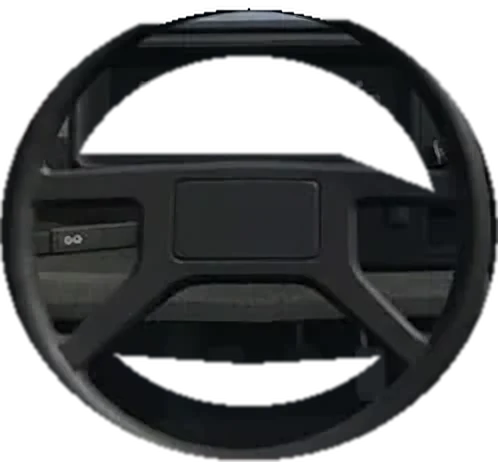
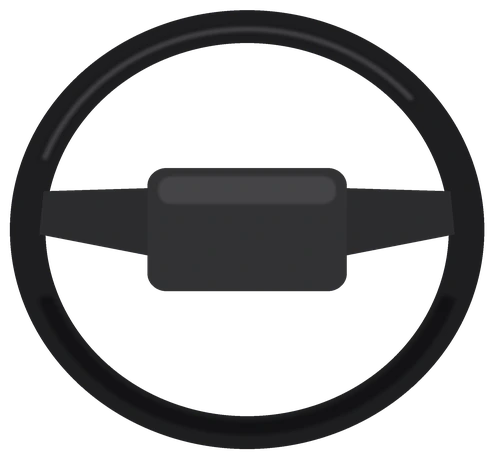
v61: muretti mai su altre strade/svincoli/cavalcavia, profili stradali ammorbiditi, cartelli a frecce nelle curve strette, volanti ridisegnati, abitacolo che si oscura di notte con strumenti accesi, opzioni polizia, pattuglia seminabile e scena del fermo, luci della città graduali nella sigla
Claude-Session: https://claude.ai/code/session_01W8iG7LND3boGmKpCt1qQnk

diff --git a/js/14_mondo_ornavia.js b/js/14_mondo_ornavia.js
@@ -86,7 +86,17 @@ NWT=(()=>{if(!NW)return null;const HIDE=false;
         g.fillStyle=`rgb(${c+t|0},${c+t*0.6|0},${c-8|0})`;g.beginPath();g.ellipse(x+w/2,y+rh/2,w/2-1.5,rh/2-1.5,(Math.random()-0.5)*0.25,0,7);g.fill();g.fillStyle='rgba(255,255,255,.08)';g.beginPath();g.ellipse(x+w/2-2,y+rh/2-3,w/3,rh/5,0,0,7);g.fill();x+=w;}y+=rh;}
       const gr=g.createLinearGradient(0,0,0,n);gr.addColorStop(0,'rgba(60,80,30,0)');gr.addColorStop(0.75,'rgba(60,80,30,0)');gr.addColorStop(1,'rgba(70,95,35,.55)');g.fillStyle=gr;g.fillRect(0,0,n,n);});
     const wm=new THREE.MeshStandardMaterial({map:wt,roughness:0.95});
-    return{m,tm,g,wm};})();
+    // cartello di curva: pannello bianco con frecce nere (una versione per lato) su paletto grigio
+    const chev=dir=>{const t=canvasTex(256,(g,n)=>{g.fillStyle='#f4f4f0';g.fillRect(0,0,n,n);g.fillStyle='#111';for(let k=0;k<2;k++){const x0=n*(0.12+k*0.38);g.beginPath();
+        if(dir>0){g.moveTo(x0,n*0.12);g.lineTo(x0+n*0.22,n*0.5);g.lineTo(x0,n*0.88);g.lineTo(x0+n*0.13,n*0.88);g.lineTo(x0+n*0.35,n*0.5);g.lineTo(x0+n*0.13,n*0.12);}
+        else{const xr=n-x0;g.moveTo(xr,n*0.12);g.lineTo(xr-n*0.22,n*0.5);g.lineTo(xr,n*0.88);g.lineTo(xr-n*0.13,n*0.88);g.lineTo(xr-n*0.35,n*0.5);g.lineTo(xr-n*0.13,n*0.12);}g.fill();}
+        g.strokeStyle='#999';g.lineWidth=6;g.strokeRect(3,3,n-6,n-6);});return new THREE.MeshStandardMaterial({map:t,roughness:0.6,side:THREE.DoubleSide});};
+    const cg=(()=>{const P=new THREE.PlaneGeometry(0.62,0.5);P.translate(0,1.15,0);const S=new THREE.BoxGeometry(0.06,1.4,0.06);S.translate(0,0.7,-0.04);
+      const out=new THREE.BufferGeometry(),pa=[P,S].map(x=>x.toNonIndexed());['position','normal','uv'].forEach(k=>{const arr=new Float32Array(pa[0].attributes[k].array.length+pa[1].attributes[k].array.length);arr.set(pa[0].attributes[k].array);arr.set(pa[1].attributes[k].array,pa[0].attributes[k].array.length);out.setAttribute(k,new THREE.BufferAttribute(arr,pa[0].attributes[k].itemSize));});
+      out.addGroup(0,pa[0].attributes.position.count,0);out.addGroup(pa[0].attributes.position.count,pa[1].attributes.position.count,1);return out;})();
+    const postM=new THREE.MeshStandardMaterial({color:0x8a8d90,roughness:0.6});
+    const ch={g:cg,m:[[chev(1),postM],[chev(-1),postM]]};
+    return{m,tm,g,wm,ch};})();
   // delineatore: paletto bianco con fascia nera e catadiottro (arancio a destra, bianco a sinistra); montante del guardrail
   const DELG=(()=>{const box=(w,h,d,y,c,x=0)=>{const g=new THREE.BoxGeometry(w,h,d).toNonIndexed();g.translate(x,y,0);const n=g.attributes.position.count,C=new Float32Array(n*3),col=new THREE.Color(c);for(let i=0;i<n;i++){C[i*3]=col.r;C[i*3+1]=col.g;C[i*3+2]=col.b;}g.setAttribute('color',new THREE.BufferAttribute(C,3));return g;};
     const merge=L=>{const P=[],N=[],C=[];L.forEach(g=>{P.push(...g.attributes.position.array);N.push(...g.attributes.normal.array);C.push(...g.attributes.color.array);});const g=new THREE.BufferGeometry();g.setAttribute('position',new THREE.Float32BufferAttribute(P,3));g.setAttribute('normal',new THREE.Float32BufferAttribute(N,3));g.setAttribute('color',new THREE.Float32BufferAttribute(C,3));return g;};
@@ -300,9 +310,10 @@ NWT=(()=>{if(!NW)return null;const HIDE=false;
         for(const q of [x>0?p-1:-1,x<w-1?p+1:-1,y>0?p-w:-1,y<h-1?p+w:-1])if(q>=0&&lab[q]<0&&L[q]<th){lab[q]=id;st.push(q);}}id++;}
     for(let i=0;i<w*h;i++)if(out.data[i*4+3]===0)out.data[i*4+3]=255;g.putImageData(out,0,0);const t=new THREE.CanvasTexture(c);t.wrapS=t.wrapT=THREE.RepeatWrapping;t.encoding=THREE.sRGBEncoding;return t;}
   let nightOn=null;
-  function setNight(on){if(on===nightOn)return;nightOn=on;
-    if(on)FAC.forEach(([m])=>{if(!m.userData.nm&&m.map){m.userData.nm=1;const t=nightMask(m.map);if(t){m.emissiveMap=t;m.emissive=new THREE.Color(0xffffff);m.needsUpdate=true;}}});
-    FAC.forEach(([m])=>{m.emissiveIntensity=on?0.9:0;});shopM.emissiveIntensity=on?0.75:0;lampHeadM.emissiveIntensity=on?2.2:0;poolM.visible=on;nightMats.forEach(([m,k])=>m.emissiveIntensity=on?k:0);}
+  // luci della città che si accendono gradualmente col buio (lv 0..1), non tutte di colpo
+  let nightLv=-1;function setNight(on,lv){const t=lv==null?(on?1:0):lv;if(Math.abs(t-nightLv)<0.01)return;nightLv=t;nightOn=t>0.5;
+    if(t>0)FAC.forEach(([m])=>{if(!m.userData.nm&&m.map){m.userData.nm=1;const tx=nightMask(m.map);if(tx){m.emissiveMap=tx;m.emissive=new THREE.Color(0xffffff);m.needsUpdate=true;}}});
+    FAC.forEach(([m])=>{m.emissiveIntensity=0.9*t;});shopM.emissiveIntensity=0.75*t;lampHeadM.emissiveIntensity=2.2*t;poolM.visible=t>0.05;if(poolM.userData.op0==null)poolM.userData.op0=poolM.opacity;poolM.opacity=poolM.userData.op0*t;nightMats.forEach(([m,k])=>m.emissiveIntensity=k*t);}
   const LMX=(()=>{const L=NW.J.lms||[],M4=new THREE.Matrix4(),Q=new THREE.Quaternion(),V=new THREE.Vector3(),S3=new THREE.Vector3(),UP=new THREE.Vector3(0,1,0),co=new THREE.Color();
     const box4=(x,z,rot,w,l)=>{const c=Math.cos(rot),s=Math.sin(rot),P=[[-l/2,-w/2],[l/2,-w/2],[l/2,w/2],[-l/2,w/2]].map(([a,b])=>[x+a*c-b*s,z+a*s+b*c]);for(let q=0;q<4;q++)LMS.segs.push([P[q][0],P[q][1],P[(q+1)%4][0],P[(q+1)%4][1]]);};
     const plasterM=new THREE.MeshStandardMaterial({map:stoneTex,color:0xeee4d2,roughness:0.85}),towerM=new THREE.MeshStandardMaterial({map:stoneTex,color:0xc9b79a,roughness:0.9});
@@ -539,24 +550,36 @@ NWT=(()=>{if(!NW)return null;const HIDE=false;
         const tx=(R.X[i+1]-R.X[i])/L,tz=(R.Z[i+1]-R.Z[i])/L,nx=-tz,nz=tx,hw=R.w/2,VW=1.2;
         [1,-1].forEach(sd=>{const base=VP.length/3;
           for(let k=0;k<2;k++){const x=k?R.X[i+1]:R.X[i],z=k?R.Z[i+1]:R.Z[i],h=k?R.Hh[i+1]:R.Hh[i];
-            const ix=x+nx*sd*(hw-0.05),iz=z+nz*sd*(hw-0.05),ox=x+nx*sd*(hw+VW),oz=z+nz*sd*(hw+VW),ho=Math.max(h-0.6,Math.min(h+0.6,NW.Hg(ox,oz)))+0.04;
+            const ix=x+nx*sd*(hw-0.05),iz=z+nz*sd*(hw-0.05),ox=x+nx*sd*(hw+VW),oz=z+nz*sd*(hw+VW),ho=Math.max(h-0.6,Math.min(h+0.6,NW.Hground(ox,oz)))+0.04;
             VP.push(ix-x0,h+0.03,iz-z0,ox-x0,ho,oz-z0);VC.push(0.17,0.14,0.08,0.2,0.2,0.09);VA.push(0.95,0);}
           VI.push(...(sd>0?[base,base+1,base+2,base+1,base+3,base+2]:[base,base+2,base+1,base+1,base+2,base+3]));
           if(NW.nearJ(R.X[i],R.Z[i],10))return;
           for(let u=Math.ceil(a/0.4)*0.4;u<b;u+=0.4){const rr=hsh(Math.floor(u*7.3)+l[q]*131,sd>0?17:977);if(rr>dens)continue;const f=(u-a)/L,off=hw+0.7+Math.pow(hsh(Math.floor(u*3.1)+l[q],sd+5),1.6)*3.2,
-              x=R.X[i]+(R.X[i+1]-R.X[i])*f+nx*sd*off,z=R.Z[i]+(R.Z[i+1]-R.Z[i])*f+nz*sd*off,h=NW.Hg(x,z);if(waterLv(x,z)!=null)continue;TF.push(x-x0,h,z-z0,rr*40,0.45+hsh(Math.floor(u*5.7)+3,l[q])*0.55);}});}
+              x=R.X[i]+(R.X[i+1]-R.X[i])*f+nx*sd*off,z=R.Z[i]+(R.Z[i+1]-R.Z[i])*f+nz*sd*off,h=NW.Hground(x,z);if(waterLv(x,z)!=null)continue;{const yh0=NW.yh;NW.yh=NaN;const rq=NW.roadAt(x,z,0.6);NW.yh=yh0;if(rq)continue;}TF.push(x-x0,h,z-z0,rr*40,0.45+hsh(Math.floor(u*5.7)+3,l[q])*0.55);}});}
       // muretti a secco lungo alcuni tratti di strada di campagna (a tratti, non agli incroci)
       {const WP=[],WU=[],WI=[];for(let q=0;q<l.length;q+=2){const R=NW.roads[l[q]],i=l[q+1];if(R.priv||R.t||R.b||R.c>7||R.c<3)continue;const a=R.cum[i],b=R.cum[i+1],L=b-a;if(L<0.5)continue;
           const mid=(a+b)/2;if(hsh(Math.floor(mid/180),l[q])>0.45)continue;if(NW.cityAt(R.X[i],R.Z[i])||NW.nearJ(R.X[i],R.Z[i],14)||NW.nearJ(R.X[i+1],R.Z[i+1],14))continue;
           const tx=(R.X[i+1]-R.X[i])/L,tz=(R.Z[i+1]-R.Z[i])/L,nx=-tz,nz=tx;
           [1,-1].forEach(sd=>{if(hsh(Math.floor(mid/240)+7,l[q]*3+sd)>0.6)return;const off=R.w/2+3.6,th=0.32,H=0.85;
-            const pts=[0,1].map(k=>{const x=(k?R.X[i+1]:R.X[i])+nx*sd*off,z=(k?R.Z[i+1]:R.Z[i])+nz*sd*off;return[x,z,NW.Hg(x,z)-0.1];});
+            const pts=[0,1].map(k=>{const x=(k?R.X[i+1]:R.X[i])+nx*sd*off,z=(k?R.Z[i+1]:R.Z[i])+nz*sd*off;return[x,z,NW.Hground(x,z)-0.1];});
             if(waterLv(pts[0][0],pts[0][1])!=null)return;
+            {const yh0=NW.yh;NW.yh=NaN;let hit=false;for(let f=0;f<=1.001&&!hit;f+=Math.min(1,3.5/L)){const x=pts[0][0]+(pts[1][0]-pts[0][0])*f,z=pts[0][1]+(pts[1][1]-pts[0][1])*f;if(NW.roadAt(x,z,1.2)||(window.HOMEZ&&HOMEZ(x,z)))hit=true;}NW.yh=yh0;if(hit)return;}   // mai muretti su un'altra strada, svincolo o cavalcavia
             const v0=a/3,v1=b/3,ox=nx*th,oz=nz*th,base=WP.length/3;
             pts.forEach(([x,z,h],k)=>{const v=k?v1:v0;WP.push(x-ox-x0,h,z-oz-z0, x-ox*0.6-x0,h+H,z-oz*0.6-z0, x+ox*0.6-x0,h+H,z+oz*0.6-z0, x+ox-x0,h,z+oz-z0);WU.push(v,0,v,0.47,v,0.53,v,1);});
             WI.push(base,base+4,base+1,base+1,base+4,base+5, base+1,base+5,base+2,base+2,base+5,base+6, base+2,base+6,base+3,base+3,base+6,base+7);});}
         if(WP.length){const g=new THREE.BufferGeometry();g.setAttribute('position',new THREE.Float32BufferAttribute(WP,3));g.setAttribute('uv',new THREE.Float32BufferAttribute(WU,2));g.setIndex(WI);g.computeVertexNormals();
           const m=new THREE.Mesh(g,VERGE.wm);m.position.set(x0,0,z0);m.castShadow=m.receiveShadow=true;scene.add(m);T.objs.push(m);T.segs&&0;}}
+      // curve strette fuori città: cartelli a frecce (bianche e nere) sul lato esterno, lungo tutta la curva
+      {const CH=[[],[]];const kOf=R=>{if(R._k)return R._k;const k=new Float32Array(R.N);for(let j=1;j<R.N-1;j++){const ax=R.X[j]-R.X[j-1],az=R.Z[j]-R.Z[j-1],bx=R.X[j+1]-R.X[j],bz=R.Z[j+1]-R.Z[j],la=Math.hypot(ax,az),lb=Math.hypot(bx,bz);if(la<0.1||lb<0.1)continue;
+          const ang=Math.atan2(ax*bz-az*bx,ax*bx+az*bz);k[j]=ang/((la+lb)/2);}const sm=new Float32Array(R.N);for(let j=0;j<R.N;j++){let a=0,n=0;for(let q=j-2;q<=j+2;q++)if(q>=0&&q<R.N){a+=k[q];n++;}sm[j]=a/n;}return R._k=sm;};
+        for(let q=0;q<l.length;q+=2){const R=NW.roads[l[q]],i=l[q+1];if(R.priv||R.t||R.b||R.c>7||R.c===0)continue;const a=R.cum[i],b=R.cum[i+1],L=b-a;if(L<0.5)continue;
+          const K=kOf(R),kk=(K[i]+K[i+1])/2;if(Math.abs(kk)<1/95)continue;if(NW.cityAt(R.X[i],R.Z[i]))continue;
+          const tx=(R.X[i+1]-R.X[i])/L,tz=(R.Z[i+1]-R.Z[i])/L,nx=-tz,nz=tx,out=kk>0?-1:1;   // lato esterno della curva
+          for(let u=Math.ceil(a/11)*11;u<b;u+=11){const f=(u-a)/L,x=R.X[i]+tx*(u-a)+nx*out*(R.w/2+1.3),z=R.Z[i]+tz*(u-a)+nz*out*(R.w/2+1.3);
+            {const yh0=NW.yh;NW.yh=NaN;const rq=NW.roadAt(x,z,0.4);NW.yh=yh0;if(rq&&rq.R!==R)continue;}
+            CH[kk>0?0:1].push(x-x0,NW.Hground(x,z),z-z0,Math.atan2(nx*out,nz*out)+Math.PI);}}
+        CH.forEach((A,j)=>{if(!A.length)return;const n=A.length/4,im=new THREE.InstancedMesh(VERGE.ch.g,VERGE.ch.m[j],n),M=new THREE.Matrix4(),Q=new THREE.Quaternion(),Y=new THREE.Vector3(0,1,0),V=new THREE.Vector3(),S1=new THREE.Vector3(1,1,1);
+          for(let k=0;k<n;k++){Q.setFromAxisAngle(Y,A[k*4+3]);V.set(A[k*4],A[k*4+1],A[k*4+2]);M.compose(V,Q,S1);im.setMatrixAt(k,M);}im.position.set(x0,0,z0);im.castShadow=true;im.updateMatrix();im.matrixAutoUpdate=false;scene.add(im);T.objs.push(im);});}
       if(VP.length){const g=new THREE.BufferGeometry();g.setAttribute('position',new THREE.Float32BufferAttribute(VP,3));g.setAttribute('color',new THREE.Float32BufferAttribute(VC,3));g.setAttribute('va',new THREE.Float32BufferAttribute(VA,1));g.setIndex(VI);g.computeVertexNormals();
         const m=new THREE.Mesh(g,VERGE.m);m.position.set(x0,0,z0);m.renderOrder=1;scene.add(m);T.objs.push(m);}
       if(TF.length){const n=TF.length/5,im=new THREE.InstancedMesh(VERGE.g,VERGE.tm,n),M=new THREE.Matrix4(),Q=new THREE.Quaternion(),Y=new THREE.Vector3(0,1,0),V=new THREE.Vector3(),S=new THREE.Vector3();

diff --git a/js/10_camera_meteo.js b/js/10_camera_meteo.js
@@ -158,8 +158,9 @@ const CKO={on:false,cfg:null,s:1,l:0,t:0,hud:new THREE.Scene(),cam:new THREE.Ort
 function ckQuad(k,u0,u1,v0,v1){const g=new THREE.PlaneGeometry(1,1),uv=g.attributes.uv;for(let i=0;i<uv.count;i++){const u=uv.getX(i),v=uv.getY(i);uv.setXY(i,u1-(u1-u0)*u,v0+(v1-v0)*v);}const m=new THREE.Mesh(g,mirrorM);CKO.hud.add(m);CKO.q[k]=m;return m;}
 ckQuad('C',0.32,0.68,0.12,0.92);ckQuad('L',0.66,1.0,0.08,0.92);ckQuad('R',0.0,0.34,0.08,0.92);
 // lancette vere sui quadranti dell'abitacolo (tachimetro e contagiri), sopra la foto e sotto il volante
-function ckNeedles(){const C=CKO.cfg,kmh=Math.abs(pl.vx)*3.6,rpm=pl.rpm||0,key=Math.round(kmh*2)+'|'+Math.round(rpm/25);if(key===CKO.nv)return;CKO.nv=key;
+function ckNeedles(){const C=CKO.cfg,kmh=Math.abs(pl.vx)*3.6,rpm=pl.rpm||0,dk=CKO.dark||0,key=Math.round(kmh*2)+'|'+Math.round(rpm/25)+'|'+Math.round(dk*20);if(key===CKO.nv)return;CKO.nv=key;
   const c=document.getElementById('ckNdl'),g=c.getContext('2d'),k=CKO.nk||1;g.setTransform(1,0,0,1,0,0);g.clearRect(0,0,c.width,c.height);g.setTransform(k,0,0,k,0,0);g.lineCap='round';
+  if(dk>0.05)for(const[x,y,r]of C.g){const gr=g.createRadialGradient(x,y,0,x,y,r*1.15);gr.addColorStop(0,`rgba(255,236,200,${0.5*dk})`);gr.addColorStop(0.8,`rgba(255,220,170,${0.32*dk})`);gr.addColorStop(1,'rgba(255,220,170,0)');g.fillStyle=gr;g.beginPath();g.arc(x,y,r*1.15,0,7);g.fill();}   // quadranti retroilluminati al buio
   for(const[x,y,r,t,max,col]of C.g){const f=t==='s'?Math.min(1.04,kmh/max):Math.min(1.04,rpm/(pl.P.red*1.2)),a=(135+270*f)*Math.PI/180,ca=Math.cos(a),sa=Math.sin(a);
     g.strokeStyle='rgba(0,0,0,.45)';g.lineWidth=1.9;g.beginPath();g.moveTo(x-ca*r*0.22+0.5,y-sa*r*0.22+0.6);g.lineTo(x+ca*r*0.92+0.5,y+sa*r*0.92+0.6);g.stroke();
     g.strokeStyle=col;g.lineWidth=1.3;g.beginPath();g.moveTo(x-ca*r*0.22,y-sa*r*0.22);g.lineTo(x+ca*r*0.92,y+sa*r*0.92);g.stroke();
@@ -227,6 +228,12 @@ function updateCamera(dt){
   pl.ck.spin.rotation.x=pl.delta*pl.P.ratio;
   // con l'abitacolo fotografico si vede solo la foto: niente cofano 3D dal parabrezza (le luci restano accese)
   if(pl.mesh&&pl.mesh.userData.ckHid!==CKO.on){pl.mesh.userData.ckHid=CKO.on;pl.mesh.traverse(o=>{if(o.isMesh||o.isSprite||o.isPoints||o.isLine)o.layers.set(CKO.on?1:0);});}
+  // di notte l'abitacolo si oscura seguendo la luce esterna; quadro strumenti e schermo restano accesi
+  if(CKO.on){const lum=Math.max(0.1,Math.min(1,sun.intensity/1.6*0.75+hemiL.intensity/0.62*0.35)),dk=1-Math.min(1,(lum-0.1)/0.75);if(Math.abs(dk-(CKO.dark||0))>0.01){CKO.dark=dk;const f='brightness('+(1-0.86*dk).toFixed(3)+') saturate('+(1-0.4*dk).toFixed(3)+')';document.getElementById('ckImg').style.filter=f;const w=document.getElementById('ckWheel');if(w)w.style.filter=f;
+    // bagliore del quadro strumenti (anche sulle auto senza lancette disegnate)
+    let gl=document.getElementById('ckGlow');if(!gl){gl=document.createElement('div');gl.id='ckGlow';gl.style.cssText='position:absolute;pointer-events:none;border-radius:50%;mix-blend-mode:screen;background:radial-gradient(closest-side,rgba(255,226,180,.55),rgba(255,210,150,.22) 60%,rgba(255,210,150,0));';const ov=document.getElementById('ckOv');ov.insertBefore(gl,document.getElementById('ckWheel'));}
+    const C=CKO.cfg,cc=C.g?[C.g.reduce((a,q)=>a+q[0],0)/C.g.length,C.g.reduce((a,q)=>a+q[1],0)/C.g.length]:C.spd||[512,330],rx=C.g?Math.max(60,(Math.max(...C.g.map(q=>q[0]))-Math.min(...C.g.map(q=>q[0])))/2+C.g[0][2]*1.6):70,ry=rx*0.55;
+    Object.assign(gl.style,{left:(CKO.l+(cc[0]-rx)*CKO.s)+'px',top:(CKO.t+(cc[1]-ry)*CKO.s)+'px',width:(2*rx*CKO.s)+'px',height:(2*ry*CKO.s)+'px',opacity:(0.85*dk).toFixed(3),display:dk>0.05?'block':'none'});}}
   if(CKO.on&&CKO.cfg.g)ckNeedles();
   if(CKO.on&&CKO.cfg.wheel){const Wh=CKO.cfg.wheel,th=pl.delta*pl.P.ratio,c=Math.cos(th),sn=Math.sin(th),k=Wh.a/Wh.b;if(Math.abs(th-(CKO.th??99))>0.002){CKO.th=th;document.getElementById('ckWheel').style.transform='matrix('+c+','+sn/k+','+(-sn*k)+','+c+',0,0)';}}
   if(pl.ck.wipers.length){const on=WX==='rain';pl.wipT=(pl.wipT||0)+(on?dt:0);const th=on?(1-Math.cos(pl.wipT*Math.PI*1.25))/2*1.35:0;
@@ -264,7 +271,7 @@ function updateCamera(dt){
   speedFx(dt);
   const ud=m.userData;ud.tailM.emissiveIntensity=pl.brkIn>0.08?2.2:(pl.lights?0.7:0.12);ud.revM.emissiveIntensity=pl.sel==='R'?2.6:0;ud.headM.emissiveIntensity=pl.flash?7:pl.lights?2.5:0.15;if(pl.flash&&!headSpot){toggleLights();toggleLights();}if(headSpot){headSpot.intensity=pl.flash?7:pl.lights?2.2:0;headSpot.distance=pl.flash?170:60;headSpot.angle=pl.flash?0.32:0.45;}
   if(headSpot){const ch=Math.cos(pl.h),sh=Math.sin(pl.h);headSpot.position.set(pl.x+ch*pl.T.L/2,pl.terrH+0.8,pl.z-sh*pl.T.L/2);headSpot.target.position.set(pl.x+ch*25,TH(pl.x+ch*25,pl.z-sh*25),pl.z-sh*25);}
-  if(CINE.intro)CINE.introCam(dt);else if(CINE.used){CINE.used=false;if(view!=='cockpit')camera.position.copy(tmpV);}
+  if(CINE.intro)CINE.introCam(dt);else if(POL.sc){POL.cam(dt);CINE.used=true;}else if(CINE.used){CINE.used=false;if(view!=='cockpit')camera.position.copy(tmpV);}
   if(window.__camFix){const f=window.__camFix;camera.position.set(pl.x+f[0],pl.terrH+f[1],pl.z+f[2]);camera.lookAt(pl.x,pl.terrH+0.7,pl.z);}
   sun.position.set(pl.x+SUNOFF.x,pl.terrH+SUNOFF.y,pl.z+SUNOFF.z);sun.target.position.set(pl.x,pl.terrH,pl.z);
 }
@@ -361,12 +368,12 @@ function applyEnv(tick){
   const H=TIME==='cycle'?CLOCK:TIME==='night'?0:TIME==='sunset'?19:12,K=envAt(H);
   NIGHT=TIME==='night'||(TIME==='cycle'&&(CLOCK<5.8||CLOCK>19.95));DUSK=TIME==='sunset'||(TIME==='cycle'&&((CLOCK>18.4&&CLOCK<20.4)||(CLOCK>5&&CLOCK<6.6)));
   if(TIME==='cycle')sunFor(CLOCK);else if(TIME==='sunset')SUNOFF.set(-110,30,30);else SUNOFF.set(-60,90,40);
-  skyMat.uniforms.uCov.value=WX==='rain'?0.3:WX==='fog'?0.35:0.56;skyMat.uniforms.uDay.value=K.day;const chg=!tick||lastNight!==NIGHT;if(NWT&&NWT.setNight&&chg)NWT.setNight(NIGHT);
+  skyMat.uniforms.uCov.value=WX==='rain'?0.3:WX==='fog'?0.35:0.56;skyMat.uniforms.uDay.value=K.day;const chg=!tick||lastNight!==NIGHT;if(NWT&&NWT.setNight){const lv=TIME==='night'?1:TIME==='cycle'?Math.max(0,Math.min(1,(0.45-(K.day||0))/0.35)):0;NWT.setNight(NIGHT,lv);}
   const U=skyMat.uniforms,fog=scene.fog;let sunI=K.sunI,sunC=K.sunC,hemiI=K.hemiI,fogC=K.fogC,fogN=260,fogF=K.fogF,exp=K.exp,clouds_c=K.cl;
   U.top.value.copy(K.top);U.mid.value.copy(K.mid);U.bot.value.copy(K.bot);if(NIGHT||!ENVGEN){const en=NIGHT?nightEnv:dayEnv;if(scene.environment!==en)scene.environment=en;}
   if(WX==='rain'){U.top.value.multiplyScalar(0.55).add(new THREE.Color(0x30353c));U.mid.value.lerp(new THREE.Color(0x6f7782),0.7);U.bot.value.lerp(new THREE.Color(0x8a9199),0.7);sunI*=0.4;hemiI*=1.1;fogC=new THREE.Color(0x0c1016).lerp(new THREE.Color(0x8a9199),Math.min(1,K.day*1.15));fogN=60;fogF=650;clouds_c=new THREE.Color(0x222831).lerp(new THREE.Color(0x8f969e),Math.min(1,K.day*1.15));}
   if(WX==='fog'){U.mid.value.lerp(new THREE.Color(0xc3c8cc),0.8);U.bot.value.lerp(new THREE.Color(0xc3c8cc),0.9);sunI*=0.5;fogC=new THREE.Color(0x10151d).lerp(new THREE.Color(0xc3c8cc),Math.min(1,K.day*1.15));fogN=8;fogF=170;}
-  if(NW&&WX!=='fog'){if(WX==='rain'){fogN*=2.5;fogF*=2.5;}else{fogN=30;fogF*=NIGHT?4.4:3.9;}}
+  if(NW&&WX!=='fog'){if(WX==='rain'){fogN*=2.5;fogF*=2.5;}else{fogN=30;fogF*=3.9+0.5*(1-(K.day||0));}}
   // nebbia serale (e del primo mattino) che sale in montagna
   {const eve=(H>17.2&&H<22)?Math.min(1,(H-17.2)/0.9,(22-H)/0.9):(H>4.6&&H<8.2)?Math.min(1,(H-4.6)/0.6,(8.2-H)/0.9)*0.85:0,alt=(NW&&pl.P)?sstep(150,330,pl.terrH||0):0,k=eve*alt*(WX==='fog'?0:1);
    if(k>0.02){fogN=fogN*(1-k)+10*k;fogF=fogF*(1-k)+140*k;fogC=new THREE.Color(fogC).lerp(new THREE.Color(K.bot).lerp(new THREE.Color(0xa4abb3),0.3).multiplyScalar(0.3+0.7*(K.day||0)),0.75*k);sunI*=1-0.5*k;}}

diff --git a/js/12_extra_carriera.js b/js/12_extra_carriera.js
@@ -298,7 +298,7 @@ function fmtT(x){return Math.floor(x/60)+':'+String(Math.floor(x%60)).padStart(2
 
 // ================= PATTUGLIA: più punti persi, più è probabile che arrivi =================
 const POL={c:null,trail:[],tT:0,
-  onInfr(kind){if(!NW||this.c||!started)return;const lic=pl.lic??20,p=kind==='pedone'?0.9:Math.min(0.9,0.22+(20-lic)*0.035);if(Math.random()<p)setTimeout(()=>this.spawn(kind),2500);},
+  onInfr(kind){const mode=CFG.pol||'tutto';if(!NW||this.c||this.sc||!started||mode==='multe'||mode==='no')return;const lic=pl.lic??20,p=(kind==='pedone'?0.9:Math.min(0.9,0.22+(20-lic)*0.035))*(mode==='rara'?0.3:1);if(Math.random()<p)setTimeout(()=>this.spawn(kind),2500);},
   spawn(kind){if(this.c||pl.ended||!started)return;const m=makeCar('berlina',0xf4f4f2,true,false);const bar=new THREE.Group();const T=TYPES.berlina;
     const bM=new THREE.MeshBasicMaterial({color:0x1a4dff}),rM=new THREE.MeshBasicMaterial({color:0x0a1030});const l1=new THREE.Mesh(new THREE.BoxGeometry(0.22,0.1,0.5),bM),l2=new THREE.Mesh(new THREE.BoxGeometry(0.22,0.1,0.5),rM);l1.position.z=-0.3;l2.position.z=0.3;bar.add(l1,l2);bar.position.set(-0.2,(T.roofY||T.H)+0.06,0);m.add(bar);
     {const s=new THREE.Mesh(new THREE.BoxGeometry(T.L*0.62,0.12,T.W+0.01),new THREE.MeshStandardMaterial({color:0x1f3f9a}));s.position.set(0,0.62,0);m.add(s);}
@@ -309,17 +309,32 @@ const POL={c:null,trail:[],tT:0,
     else{say('Hai seminato la pattuglia');DJ.say('seminata',true);}
     if(this.siren)this.siren.stop();this.siren=null;const m=c.m;this.c=null;setTimeout(()=>scene.remove(m),caught?6000:100);},
   tick(dt){if(!started||!isFinite(pl.x))return;this.tT-=dt;if(this.tT<=0){this.tT=0.2;const L=this.trail,lx=L.length?L[L.length-1]:null;if(!lx||!(Math.hypot(lx[0]-pl.x,lx[1]-pl.z)<=2))L.push([pl.x,pl.z]);if(L.length>900){L.splice(0,300);if(this.c)this.c.i=Math.max(0,this.c.i-300);}}
-    const c=this.c;if(!c)return;const L=this.trail;if(!isFinite(c.x)||!isFinite(c.v)){c.x=pl.x-Math.cos(pl.h)*150;c.z=pl.z+Math.sin(pl.h)*150;c.v=20;c.i=Math.max(0,L.length-1);c.f=0;}
+    const c=this.c;if(!c||this.sc)return;const L=this.trail;if(!isFinite(c.x)||!isFinite(c.v)){c.x=pl.x-Math.cos(pl.h)*150;c.z=pl.z+Math.sin(pl.h)*150;c.v=20;c.i=Math.max(0,L.length-1);c.f=0;}
     // segue la scia del giocatore: sulle stesse strade, senza scorciatoie
-    const dPl=Math.hypot(pl.x-c.x,pl.z-c.z),vp=Math.hypot(pl.vx,pl.vy),vt=dPl>40?Math.max(16,vp+9):dPl>14?vp+3:Math.min(vp,dPl>9?4:0);
+    const dPl=Math.hypot(pl.x-c.x,pl.z-c.z),vp=Math.hypot(pl.vx,pl.vy);c.age=(c.age||0)+dt;const vt=dPl>40?Math.max(16,vp>12?vp*(dPl<150?1.02:0.96):vp+9):dPl>14?vp+3:Math.min(vp,dPl>9?4:0);   // chi corre si può sempre seminare: oltre i 150 m la pattuglia perde terreno
     c.v+=(Math.min(46,vt)-c.v)*Math.min(1,dt*1.5);let mv=c.v*dt;
     if(c.pre){const t=L[c.i]||[pl.x,pl.z],dx=t[0]-c.x,dz=t[1]-c.z,dd=Math.hypot(dx,dz);if(dd<3)c.pre=false;else{const k=Math.min(1,mv/dd);c.x+=dx*k;c.z+=dz*k;mv=0;c.m.rotation.y=Math.atan2(-dz,dx);}}
     while(!c.pre&&mv>0&&c.i<L.length-1){const a=L[c.i],b=L[c.i+1],sl=Math.hypot(b[0]-a[0],b[1]-a[1])||0.01,rem=sl*(1-c.f);if(mv<rem){c.f+=mv/sl;mv=0;}else{mv-=rem;c.i++;c.f=0;}}
     if(c.pre){}else if(c.i>=L.length-1){c.x=L[L.length-1][0];c.z=L[L.length-1][1];}else{const a=L[c.i],b=L[c.i+1];c.x=a[0]+(b[0]-a[0])*c.f;c.z=a[1]+(b[1]-a[1])*c.f;const h=Math.atan2(-(b[1]-a[1]),b[0]-a[0]);c.m.rotation.y+=(Math.atan2(Math.sin(h-c.m.rotation.y),Math.cos(h-c.m.rotation.y)))*Math.min(1,dt*6);}
     c.m.position.set(c.x,TH(c.x,c.z),c.z);const fl=Math.sin(simT*14)>0;c.l1.material=fl?c.bM:c.rM;c.l2.material=fl?c.rM:c.bM;
     if(this.siren)this.siren.set(dPl,simT);
-    if(dPl<22&&vp<1.2){c.hold+=dt;if(c.hold>2)this.end(true);}else c.hold=Math.max(0,c.hold-dt*0.5);
-    if(dPl>520){c.lost+=dt;if(c.lost>8)this.end(false);}else c.lost=0;}};
+    if(dPl<22&&vp<1.2){c.hold+=dt;if(c.hold>2)this.stop();}else c.hold=Math.max(0,c.hold-dt*0.5);
+    if(dPl>380||(c.age>100&&dPl>150)){c.lost+=dt;if(c.lost>7)this.end(false);}else c.lost=0;},
+  // fermo: vista da fuori, l'agente scende, viene al finestrino, consegna il verbale, risale e la pattuglia riparte
+  stop(){const c=this.c;if(!c||this.sc)return;if(this.siren)this.siren.stop();this.siren=null;
+    const T=TYPES[selKey]||TYPES.berlina,V=new THREE.Vector3(),win=pl.mesh.localToWorld(V.set(0.15,0,-(T.W/2+0.75))).clone(),door=c.m.localToWorld(new THREE.Vector3(0.35,0,-(TYPES.berlina.W/2+0.6))).clone();
+    const o=makePed();if(o.userData.hi){o.userData.hi.visible=true;o.userData.lo.visible=false;}o.traverse(q=>{if(q.isMesh&&q.material&&q.material.color){q.material=q.material.clone();q.material.color.lerp(new THREE.Color(0x1d2a4a),0.65);}});
+    o.position.set(door.x,TH(door.x,door.z),door.z);scene.add(o);
+    this.sc={t:0,ph:'out',o,win,door,view,cam:pl.mesh.localToWorld(new THREE.Vector3(4.2,1.8,-5.2)).clone()};document.body.classList.add('cine');if(view==='cockpit'){view='chase';applyView();}
+    pl.navMsg='🚓 Fermo di polizia';pl.navMsgT=3;say('Patente e libretto, prego');},
+  scTick(dt){const S=this.sc,c=this.c;if(!S)return;S.t+=dt;pl.vx=pl.vy=0;pl.hb=true;
+    const o=S.o,mx=o.userData.mixer,walk=(a,b,sp)=>{const dx=b.x-o.position.x,dz=b.z-o.position.z,d=Math.hypot(dx,dz);if(d<0.15)return true;const k=Math.min(1,sp*dt/d);o.position.x+=dx*k;o.position.z+=dz*k;o.position.y=TH(o.position.x,o.position.z);o.rotation.y=Math.atan2(-dz,dx);if(mx)mx.update(dt);return false;};
+    if(S.ph==='out'){if(walk(S.door,S.win,1.3)){S.ph='talk';S.t=0;o.rotation.y=Math.atan2(-(pl.z-o.position.z),pl.x-o.position.x);}}
+    else if(S.ph==='talk'){if(S.t>4.5){S.ph='back';const f=kind2fine(c.why);if(CFG.pol!=='no'){CAR.add(-f,'Verbale della polizia');if(!CAR.on)pl.fines=(pl.fines||0)+f;}say('Verbale di '+f+' euro. Buona giornata');pl.navMsg='🧾 Verbale: '+f+' €';pl.navMsgT=4;DJ.say('presa',true);}}
+    else if(S.ph==='back'){if(walk(S.win,S.door,1.4)){S.ph='go';S.t=0;scene.remove(o);S.v=0;}}
+    else if(S.ph==='go'){S.v=Math.min(16,S.v+dt*3.5);const h=c.m.rotation.y;c.m.position.x+=Math.cos(h)*S.v*dt;c.m.position.z-=Math.sin(h)*S.v*dt;c.m.position.y=TH(c.m.position.x,c.m.position.z);
+      if(S.t>5){const m=c.m;scene.remove(m);this.c=null;const v0=S.view;this.sc=null;pl.hb=false;document.body.classList.remove('cine');if(v0!==view){view=v0;applyView();}}}},
+  cam(dt){const S=this.sc;if(!S)return false;camera.position.copy(S.cam);camera.lookAt(S.win.x,S.win.y+1.2,S.win.z);return true;}};
 function kind2fine(k){return k==='pedone'?300:k==='rosso'?200:k==='velocita'?180:120;}
 function initSiren(){if(!AC)return null;const o=AC.createOscillator();o.type='square';const f=AC.createBiquadFilter();f.type='lowpass';f.frequency.value=2000;const g=AC.createGain();g.gain.value=0;o.connect(f).connect(g).connect(ACOUT());o.start();
   return{set(d,t){if(!isFinite(d))return;const hi=((t/0.55)|0)%2;o.frequency.setTargetAtTime(hi?880:660,AC.currentTime,0.01);g.gain.setTargetAtTime(Math.min(0.12,0.12/(1+(d/25)**2)),AC.currentTime,0.08);},stop(){g.gain.setTargetAtTime(0,AC.currentTime,0.1);setTimeout(()=>{try{o.stop();}catch(e){}},500);}};}

diff --git a/index.html b/index.html
@@ -359,7 +359,7 @@
       <div class="row"><label>Il ciclo parte alle <select id="selCycS"><option value="5.5">5:30 (alba)</option><option value="9">9:00</option><option value="17.5">17:30 (verso il tramonto)</option><option value="21">21:00 (notte)</option></select></label><label>Durata del giorno <select id="selCyc"><option value="2">12 minuti</option><option value="1">24 minuti</option><option value="0.5">48 minuti</option></select></label></div>
     </section>
     <section class="card span"><h2>Regole</h2>
-      <div class="row"><label>Profilo di guida <select id="selAids"><option value="2">Facile</option><option value="1">Normale</option><option value="0">Realistico</option></select></label><label>Traffico <select id="selTraf"><option value="0">Nessuno</option><option value="0.5">Poco</option><option value="1">Normale</option><option value="1.7">Tanto</option></select></label><label>Carburante <select id="selFuel"><option value="0">Infinito</option><option value="1">Consumo realistico</option><option value="2">Consumo arcade (×6)</option></select></label></div>
+      <div class="row"><label>Profilo di guida <select id="selAids"><option value="2">Facile</option><option value="1">Normale</option><option value="0">Realistico</option></select></label><label>Polizia <select id="selPol"><option value="tutto">Multe e pattuglie</option><option value="rara">Pattuglie rare</option><option value="multe">Solo multe</option><option value="no">Nessuna</option></select></label><label>Traffico <select id="selTraf"><option value="0">Nessuno</option><option value="0.5">Poco</option><option value="1">Normale</option><option value="1.7">Tanto</option></select></label><label>Carburante <select id="selFuel"><option value="0">Infinito</option><option value="1">Consumo realistico</option><option value="2">Consumo arcade (×6)</option></select></label></div>
     </section>
   </div>
   <div class="mgrid tabp" data-t="auto">
@@ -406,7 +406,7 @@
   </div>
   <div class="mgrid tabp" data-t="cart"><section class="card span"><h2>Foto e clip</h2><p class="note">Tasto O (o il pulsante Foto) per scattare, J per registrare una clip: finiscono qui. Tocca per ingrandire e salvare.</p><div id="mediaAlbum" class="pcGrid"></div></section><section class="card span"><h2>Cartoline di Valdonia · <span id="pcCount">0 / 20</span></h2><p class="note">Venti punti panoramici sparsi per Valdonia: valichi e belvedere, lungolaghi e coste, le piazze delle città più grandi. Passandoci in auto scatti la cartolina.</p><div id="pcAlbum" class="pcGrid"></div></section></div>
 <div id="lbx"><div class="in"><div class="media"></div><div class="cap"></div><div class="bt"><button id="lbxSave">⬇ Salva</button><button id="lbxDel" class="sm">Elimina</button><button id="lbxClose" class="sm">Chiudi</button></div></div></div>
-  <div class="mgrid tabp" data-t="info"><section class="card span sup"><h2>♥ Supporta Guido !</h2><p>Guido è gratis e senza pubblicità. Se ti diverte, offrici da bere !</p><a class="supBtn" href="https://buy.stripe.com/eVqaEZanK0EKcA38ZcejK01" target="_blank" rel="noopener">🍹 Offrici da bere</a></section><div style="text-align:center;font-size:12px;color:#8a9099;margin:-4px 0 6px" class="span">Versione 60</div><section class="card span credBox"><div class="row" style="padding:12px 16px 0;justify-content:center"><button id="instBtn" class="sm" style="display:none">📲 Installa sul telefono</button></div><div class="credWin" id="credWin"><div class="credRoll" id="credRoll">
+  <div class="mgrid tabp" data-t="info"><section class="card span sup"><h2>♥ Supporta Guido !</h2><p>Guido è gratis e senza pubblicità. Se ti diverte, offrici da bere !</p><a class="supBtn" href="https://buy.stripe.com/eVqaEZanK0EKcA38ZcejK01" target="_blank" rel="noopener">🍹 Offrici da bere</a></section><div style="text-align:center;font-size:12px;color:#8a9099;margin:-4px 0 6px" class="span">Versione 61</div><section class="card span credBox"><div class="row" style="padding:12px 16px 0;justify-content:center"><button id="instBtn" class="sm" style="display:none">📲 Installa sul telefono</button></div><div class="credWin" id="credWin"><div class="credRoll" id="credRoll">
 <div class="studio"><img src="img/logo_plate.webp" alt="Guido"><div><div class="by">Un gioco realizzato da</div><div class="st">HOPTHOP STUDIO</div><div class="yr">© 2026 · ideazione, programmazione, mondo di Valdonia</div></div></div>
 <h2 style="margin:0 0 8px">Crediti dei modelli 3D</h2><p style="opacity:.8;margin:0 0 10px">Modelli scaricati da Sketchfab, usati con licenza Creative Commons Attribution 4.0 (CC BY 4.0) salvo dove indicato. Sono stati ridotti e ottimizzati per il browser.</p>
 <ul style="padding-left:18px;margin:0">

diff --git a/js/13_casa_ciclo.js b/js/13_casa_ciclo.js
@@ -226,7 +226,7 @@ HOME.camera=function(dt){const g=HOME.gd,ret=HOME.mode==='return',back=ret?5.2:3
   tmpV.set(bx,gy+up,bz);if(HOME.camInit){camera.position.copy(tmpV);HOME.camInit=false;}else camera.position.lerp(tmpV,1-Math.exp(-dt*(ret?2.5:5)));
   if(camera.fov!==60){camera.fov=60;camera.updateProjectionMatrix();}camLook.set(g.x+Math.sin(g.h)*1.5,gy+1.2,g.z+Math.cos(g.h)*1.5);camera.lookAt(camLook);
   sun.position.set(g.x+SUNOFF.x,gy+SUNOFF.y,g.z+SUNOFF.z);sun.target.position.set(g.x,gy,g.z);}
-window.__x={pedHit,penalty,HOME,PCARD,getRoute:()=>route,FUEL,CH,MAP,PHOTO,ORB,REC,mapToggle,photoToggle,photoShot,recToggle,chArrive,chStart,tankOf,setClock:h=>{CLOCK=h;},st:()=>({CLOCK,NIGHT,DUSK,MODE,TIME,paused,route:!!route,view,sunI:+sun.intensity.toFixed(2),exp:renderer.toneMappingExposure,fog:scene.fog.color.getHexString(),sun:[SUNOFF.x|0,SUNOFF.y|0,SUNOFF.z|0],lights:pl.lights})};
+window.__x={pedHit,penalty,HOME,PCARD,POL,getRoute:()=>route,FUEL,CH,MAP,PHOTO,ORB,REC,mapToggle,photoToggle,photoShot,recToggle,chArrive,chStart,tankOf,setClock:h=>{CLOCK=h;},st:()=>({CLOCK,NIGHT,DUSK,MODE,TIME,paused,route:!!route,view,sunI:+sun.intensity.toFixed(2),exp:renderer.toneMappingExposure,fog:scene.fog.color.getHexString(),sun:[SUNOFF.x|0,SUNOFF.y|0,SUNOFF.z|0],lights:pl.lights})};
 const hud=document.getElementById('hud'),navBox=document.getElementById('navBox'),endBtn=document.getElementById('endBtn');endBtn.onclick=()=>endRun('fine');
 function loop(now){
   const dt=Math.min(0.05,(now-last)/1000);last=now;
@@ -263,7 +263,7 @@ function loop(now){
     if(NW&&NWT)CINE.menu(dt);else{const a=simT*0.05;camera.position.set(Math.cos(a)*70,40,Math.sin(a)*70);camera.lookAt(0,0,0);sun.position.set(-60,90,40);sun.target.position.set(0,0,0);}
   } else if((menu.style.display!=='none'||document.getElementById('splash'))&&NWT)CINE.menu(dt);
   {const fe=document.getElementById('cineFade');if(fe){const on=menu.style.display!=='none'||!!document.getElementById('splash');if(fe.style.display!==(on?'block':'none'))fe.style.display=on?'block':'none';}}
-  if(PHOTO.on)photoUpdate(dt);envTick(dt);chTick(dt);recTick();SMOKE.update(dt);CAR.tick(dt);JOB.tick(dt);POL.tick(dt);EVT.tick(dt);
+  if(PHOTO.on)photoUpdate(dt);envTick(dt);chTick(dt);recTick();SMOKE.update(dt);CAR.tick(dt);JOB.tick(dt);POL.tick(dt);POL.scTick(dt);EVT.tick(dt);
   sky.position.copy(camera.position);skyMat.uniforms.uT.value=simT;clouds.forEach(c=>{c.position.x+=dt*3;if(NWT){const cx=camera.position.x,cz=camera.position.z;if(c.position.x-cx>2800)c.position.x-=5600;if(c.position.x-cx<-2800)c.position.x+=5600;if(c.position.z-cz>2800)c.position.z-=5600;if(c.position.z-cz<-2800)c.position.z+=5600;}else if(c.position.x>3400)c.position.x-=5600;});
   if(pl.ck&&pl.ck.mirrors)pl.ck.mirrors.forEach(m=>m.visible=CFG.mir!==false);
   if(started&&!paused&&view==='cockpit'&&pl.ck&&CFG.mir!==false&&(frameN%(QG.mir===1?2:QG.mir*2)===0)){pl.ck.g.visible=false;renderer.shadowMap.autoUpdate=false;sky.position.setFromMatrixPosition(rearCam.matrixWorld);

diff --git a/js/03_mondo_dati.js b/js/03_mondo_dati.js
@@ -17,6 +17,13 @@ NW=(()=>{const D=window.NWDATA;if(!D)return null;
   const roads=J.roads.map(([c,o,w,ms,n,ref,b,t,p])=>{const N=p.length/3,X=new Float64Array(N),Z=new Float64Array(N),Hh=new Float32Array(N),cum=new Float32Array(N);
     for(let i=0;i<N;i++){X[i]=p[i*3];Z[i]=p[i*3+1];Hh[i]=p[i*3+2];if(i)cum[i]=cum[i-1]+Math.hypot(X[i]-X[i-1],Z[i]-Z[i-1]);}
     return {c,o,w,ms,n,ref,b,t,X,Z,Hh,cum,N};});
+  // profili altimetrici morbidi: niente scalini o cunette secche; i punti condivisi con altre strade (incroci) e ponti/gallerie restano dove sono
+  {const key=(x,z)=>Math.round(x*2)+','+Math.round(z*2),cnt=new Map();roads.forEach(R=>{for(let i=0;i<R.N;i++){const k=key(R.X[i],R.Z[i]);cnt.set(k,(cnt.get(k)||0)+1);}});
+   roads.forEach(R=>{if(R.b||R.t||R.N<3)return;const N=R.N,H=R.Hh,cum=R.cum,fix=new Uint8Array(N);fix[0]=fix[N-1]=1;for(let i=1;i<N-1;i++)if(cnt.get(key(R.X[i],R.Z[i]))>1)fix[i]=1;
+     const W=R.c<=2?45:R.c<=5?30:22;let A=Float32Array.from(H);
+     for(let it=0;it<2;it++){const B=Float32Array.from(A);let lo=0,hi=0;for(let i=0;i<N;i++){if(fix[i])continue;while(cum[i]-cum[lo]>W*2)lo++;while(hi<N-1&&cum[hi+1]-cum[i]<=W*2)hi++;
+         let sw=0,sv=0;for(let j=lo;j<=hi;j++){const d=(cum[j]-cum[i])/W,w=Math.exp(-d*d);sw+=w;sv+=w*A[j];}B[i]=sv/sw;}A=B;}
+     for(let i=0;i<N;i++)if(!fix[i])H[i]=Math.max(H[i]-6,Math.min(H[i]+6,A[i]));});}
   // indice spaziale (celle da 64 m) dei segmenti percorribili, con margine per lo spianamento del terreno
   const HC=64,hash=new Map(),hk=(i,j)=>i*1000003+j;
   roads.forEach((R,ri)=>{if(R.c>=10)return;const m=Math.min(60,R.w/2+40);for(let i=0;i<R.N-1;i++){

diff --git a/js/11_navigatore_menu.js b/js/11_navigatore_menu.js
@@ -205,6 +205,7 @@ document.getElementById('tuneReset').onclick=()=>{delete TUNES[selKey];applyTune
  const c2=document.getElementById('selCycS');c2.value=String(CFG.cycStart??5.5);if(!c2.value)c2.value='5.5';CFG.cycStart=+c2.value;c2.onchange=()=>{CFG.cycStart=+c2.value;savePrefs();};
  document.getElementById('mapBtn').onclick=e=>{e.currentTarget.blur();mapToggle();};document.getElementById('photoBtn').onclick=e=>{e.currentTarget.blur();SHOT.take();};document.getElementById('recBtn').onclick=e=>{e.currentTarget.blur();recToggle();};
  document.getElementById('photoShot').onclick=()=>photoShot();document.getElementById('photoExit').onclick=()=>photoToggle();}
+{const t=document.getElementById('selPol');t.value=CFG.pol||'tutto';t.onchange=()=>{CFG.pol=t.value;savePrefs();};}
 {const t=document.getElementById('selTraf');t.value=String(CFG.traf??1);if(!t.value)t.value='1';t.onchange=()=>{CFG.traf=+t.value;savePrefs();};}
 {const box=document.getElementById('radioList');const save=l=>{try{localStorage.setItem('sim_radio',JSON.stringify(l));}catch(e){}RADIO.reload();};
   const draw=()=>{const l=RADIO.user();box.innerHTML='';l.forEach((st,k)=>{const r=document.createElement('div');r.className='row';const n=document.createElement('input');n.value=st.n||'';n.placeholder='Nome';n.size=14;

diff --git a/js/05_traffico_pedoni.js b/js/05_traffico_pedoni.js
@@ -238,7 +238,7 @@ function penalty(kind){if(!started||pl.ended)return;const T={pedone:[10,250,'Ped
   let ch='';if(MODE==='deliv'&&CH.dl){const sec=kind==='pedone'?15:5,pts=kind==='pedone'?60:20;CH.left=Math.max(0.5,CH.left-sec);CH.score=Math.max(0,CH.score-pts);ch=` · −${pts} punti, −${sec} s`;}
   else if(MODE==='ring'&&CH.t0!=null){const sec=kind==='pedone'?10:3;CH.t0-=sec;ch=` · +${sec} s sul giro`;}
   pl.infrMsg=`${T[2]}! −${T[0]} punti patente (${pl.lic}/20)`+(T[1]?` · multa ${T[1]} €`:'')+ch;pl.infrT=4;
-  if(T[1])CAR.add(-T[1],'Multa: '+T[2].toLowerCase());DJ.say(kind);POL.onInfr(kind);
+  if(T[1]&&CFG.pol!=='no')CAR.add(-T[1],'Multa: '+T[2].toLowerCase());DJ.say(kind);POL.onInfr(kind);
   if(pl.lic<=0&&!pl.licGone){pl.licGone=true;say('Patente ritirata');setTimeout(()=>{pl.licGone=false;if(!pl.ended&&window.endRun)window.endRun('patente');},1500);}}
 // pedone urtato: cade, resta giù un attimo, si rialza, si spolvera e ti agita il pugno; niente fine corsa, ma punti patente e multa
 function pedHit(p,v){if(p.down)return;p.down=true;p.dT=0;const[wx,wz]=getWorldVel(),sp=Math.hypot(wx,wz)||1;p.push={x:wx/sp,z:wz/sp,s:Math.min(3.5,0.6+v*0.22)};p.base={x:p.m.position.x,y:p.m.position.y,z:p.m.position.z};p.ry=p.m.rotation.y;

diff --git a/sw.js b/sw.js
@@ -1,6 +1,6 @@
 // Guido: service worker. Il gioco si installa come app; i file del gioco arrivano dalla rete quando c'è,
 // altrimenti dalla copia salvata, così parte anche offline. Le librerie dai CDN restano in cache.
-const V = 'guido-v60';
+const V = 'guido-v61';
 const CORE = ['./', './index.html', './manifest.webmanifest', './icons/icon-192.png', './icons/icon-512.png', './icons/favicon-32.png', './img/logo_plate.webp'];
 self.addEventListener('install', e => { self.skipWaiting(); e.waitUntil(caches.open(V).then(c => c.addAll(CORE)).catch(() => {})); });
 self.addEventListener('activate', e => { e.waitUntil(caches.keys().then(k => Promise.all(k.filter(x => x !== V).map(x => caches.delete(x)))).then(() => self.clients.claim())); });
